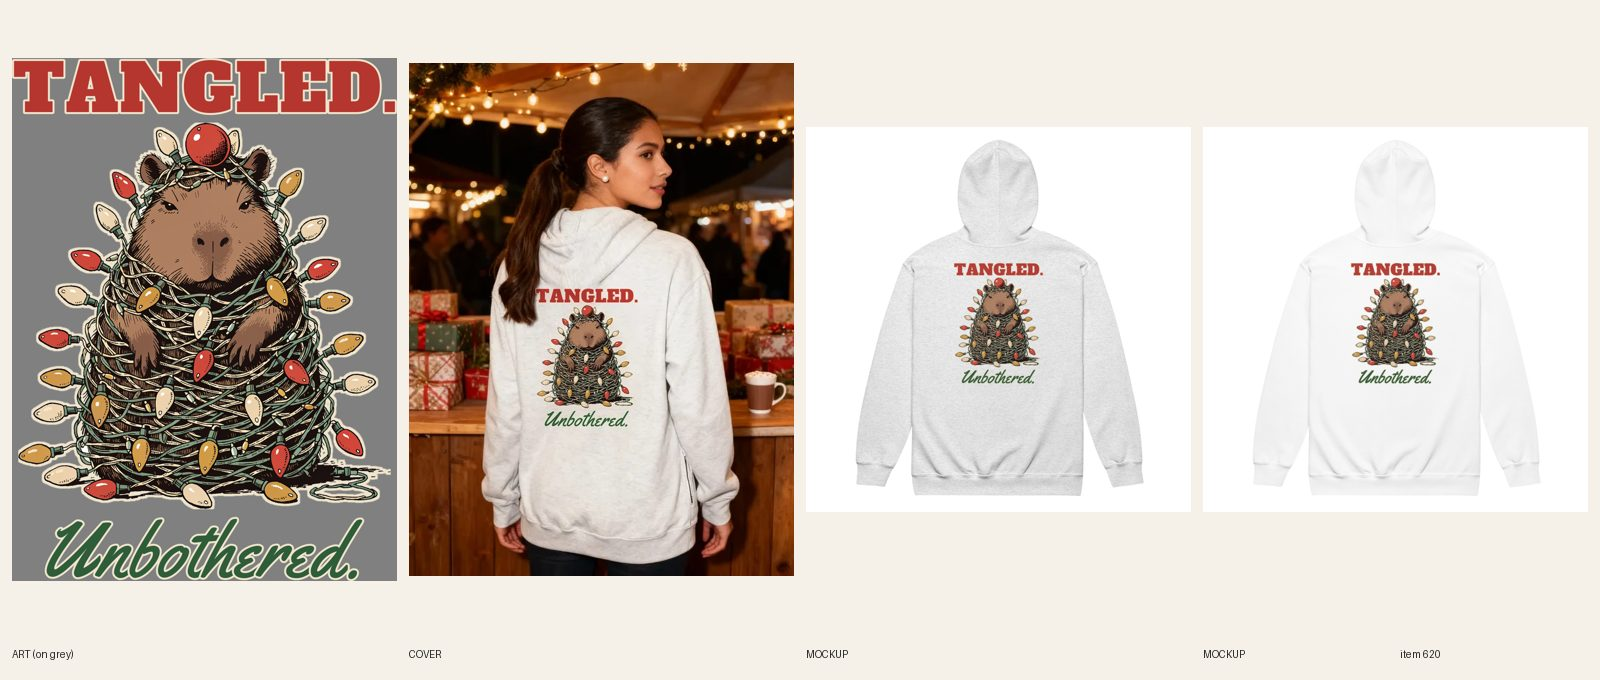
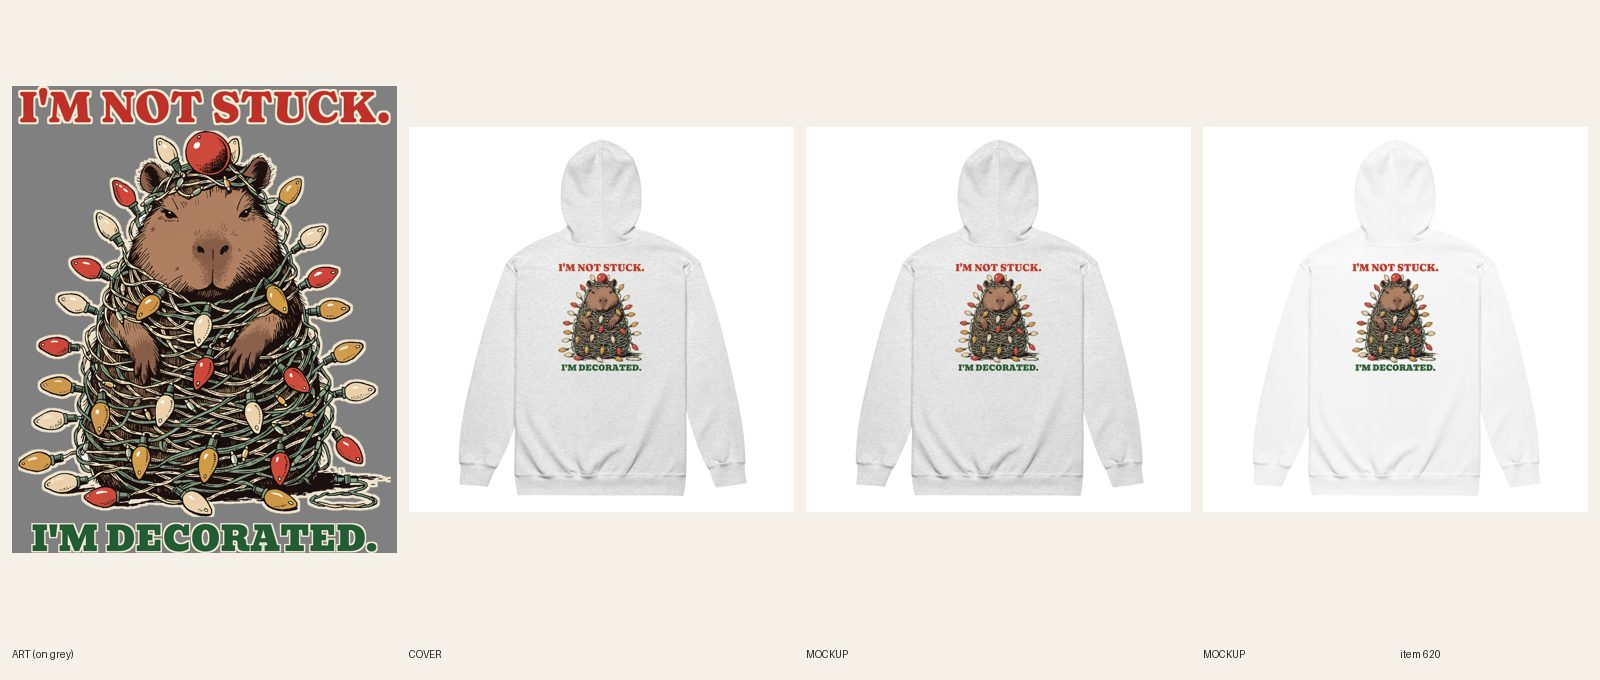
[C] review 620 (redo)
Claude-Session: https://claude.ai/code/session_01CCHcDj8LcJJ8qUPtKE3cvn

Changed region(s): [[0.0, 0.0618, 0.5, 0.8647], [0.8438, 0.3706, 0.9062, 0.5868], [0.5938, 0.3706, 0.6562, 0.5868]]

diff --git a/designs/c620/make.py b/designs/c620/make.py
@@ -1,0 +1,34 @@
+from PIL import Image, ImageDraw, ImageFont, ImageFilter
+FD='designs/fonts/'
+RED=(196,52,44,255); RED=(190,48,40,255); GREEN=(34,92,52,255); CREAM=(246,236,214,255); BROWN=(58,36,24,255)
+def line(text,font,wfrac,W,fill,key,kw=31,track=0,var=None):
+    def mk(sz):
+        f=ImageFont.truetype(FD+font,sz)
+        if var: f.set_variation_by_axes(var)
+        return f
+    f=mk(800); adv=[f.getlength(c) for c in text]
+    tot=sum(adv)+track*(len(text)-1); size=int(800*W*wfrac/tot)
+    f=mk(size); adv=[f.getlength(c) for c in text]; tr=int(track*size/800)
+    asc,desc=f.getmetrics(); tot=int(sum(adv)+tr*(len(text)-1))
+    pad=80; im=Image.new('RGBA',(tot+2*pad,asc+desc+2*pad),(0,0,0,0))
+    def draw(layer,col):
+        d=ImageDraw.Draw(layer); x=pad
+        for c,a in zip(text,adv): d.text((x,pad),c,font=f,fill=col); x+=a+tr
+    k=Image.new('L',im.size,0); d=ImageDraw.Draw(k); x=pad
+    for c,a in zip(text,adv): d.text((x,pad),c,font=f,fill=255); x+=a+tr
+    k=k.filter(ImageFilter.MaxFilter(kw)); im.paste(Image.new('RGBA',im.size,key),(0,0),k)
+    draw(im,fill)
+    return im.crop(im.getbbox())
+src=Image.open('docs/print-files/620-capybara-tangled-zip.png').convert('RGBA'); W=src.width
+art=src.crop((0,462,W,3228))
+h1=line("I'M NOT STUCK.",'Fraunces[SOFT,WONK,opsz,wght].ttf',0.97,W,RED,CREAM,kw=29,var=[9,900,60,1])
+h2=line("I'M DECORATED.",'Bevan-Regular.ttf',0.90,W,GREEN,CREAM,kw=21,track=12)
+print('h1',h1.size,'h2',h2.size,'ratio h2/h1',h2.height/h1.height)
+g=40; H=h1.height+g+art.height+g+h2.height
+out=Image.new('RGBA',(W,H),(0,0,0,0))
+out.alpha_composite(h1,((W-h1.width)//2,0)); y=h1.height+g
+out.alpha_composite(art,(0,y)); y+=art.height+g
+out.alpha_composite(h2,((W-h2.width)//2,y))
+out.save('docs/print-files/620-v2-not-stuck.png'); print(out.size,H/W)
+for n,c in (('ash',(200,200,200,255)),('white',(250,250,250,255))):
+    bg=Image.new('RGBA',out.size,c); bg.alpha_composite(out); bg.convert('RGB').resize((600,int(600*H/W))).save(f'designs/c620/prev_{n}.png')

diff --git a/docs/pipeline/620-capybara-christmas-zip-hoodie-tangled-unbothered.md b/docs/pipeline/620-capybara-christmas-zip-hoodie-tangled-unbothered.md
@@ -1,4 +1,4 @@
-status: REDO
+status: REVIEW
 shopify: gid://shopify/Product/15364926144816
 lane: C
 type: twin
@@ -29,3 +29,4 @@ kd: 18
 - 2026-10-18 08:33 UTC builder [C]: Printful relink verified 12/12 (6 Ash + 6 White: back 1088743911, chest copy 1088766040); REVIEW.
 - 2026-10-18 09:22 UTC director: LIVE. approved from docs/review/620.jpg (back print reads on Ash and White; hood visible on the back-view cover). ACTIVE + Online Store/Headless/Google & YouTube, audit --handle PASS (0 warn).
 - 2026-10-18 17:22 UTC director: QUALITY RESET grade C (new line + type), REDO. The product stays ACTIVE (same handle, URL, title keyword). 1. Line (R3.12, quality-reset 'Lines'): "Tangled. / Unbothered.": Noun + mild aside, describes the picture; thin green script under art. Write 5 candidates, keep the one a stranger laughs at in 3 seconds without backstory; kill lines that only describe the picture; if none of the 5 is funny, PARK it. 2. Quality reset type bar (docs/backlog/quality-reset.md, 'The new bar'): headline at least 90% of the art width, heavy, colors pulled from the art; second line at least 45% of the headline's height, never a thin script on a dark or mid garment; use the lettering as a shape (arch, stacked lockup, words breaking into the art), not a plain bar above and a script line below; no font used on more than 1 in 6 of the last 30 designs. 3. Keep the art if it carries the new line, else one new illustration (R4/R5). New print means a new cover per R6.10, copy line one rewritten for the new joke (R8.3), and a fresh review sheet (R7.7). While quality-reset.md says PAUSED, only lane A builds, and only the samples step 2 names.
+- 2026-10-20 10:30 UTC builder [C]: REDO new line + type (grade C). 5 candidates: "I'M NOT STUCK. / I'M DECORATED." (kept: the capybara's calm excuse, a stranger gets it from the picture), "TANGLED. UNBOTHERED." (old), "THE LIGHTS WORKED LAST YEAR.", "TESTING 1, 2, 3", "DECK THE HALLS. WITH ME.". Same tangled-lights capybara art. I'M NOT STUCK. in Fraunces Black (opsz 9) 97% of the art width, red with cream keyline; I'M DECORATED. in Bevan 90% width, green with cream keyline (78% of the headline's height). Ash + White light, no cream fills, one back file 1090177287 (2754 x 3344, docs/print-files/620-v2-not-stuck.png), BW 1560 BT 225 (about 1,900 px high), chest copy 1088766040 unchanged, 12/12 relinked. Both back mockups replaced in place, read at phone size. Copy, story, FAQ, SEO rewritten for the new line; Christmas order-by Dec 8 kept. Plain product shot. fal $0.

diff --git a/docs/intake-log.md b/docs/intake-log.md
@@ -26,6 +26,7 @@ RUNNING lane B since 2026-10-20 03:28 UTC
 2026-10-20 03:41 UTC — [B] Builder run: redid #362 Women's Baseball hoodie (line + type: MISSED THE PLAY. / SEEDS WERE GOOD., same art, Bowlby One, Navy + Sand light files, 12/12 synced). REVIEW. fal $0.
 2026-10-20 05:26 UTC — [E] Builder run: redid #388 Women's Christmas crewneck (line + type: SORRY, I'M BOOKED TILL JANUARY., new party-calendar art, Navy + Sand files, 12/12 synced, copy updated, plain product shot). REVIEW. fal $0.08.
 RUNNING lane C since 2026-10-20 03:23 UTC
+2026-10-20 10:32 UTC — [C] Builder run: redid #620 Women's Christmas capybara zip hoodie (new line + type: I'M NOT STUCK. / I'M DECORATED., Fraunces Black + Bevan, same lights art, back file 1090177287, 12/12 relinked, 2 back mockups replaced in place, copy + SEO updated, plain product shot). REVIEW. fal $0.
 2026-10-20 09:57 UTC — [C] Builder run: redid #563 Women's Gigi hoodie (type only: GIGI Alfa Slab + BECAUSE GRANDMA SOUNDED OLD. Oswald Bold, same handbag art, file 1090174683, FW 1500 TOP 0, 12/12 relinked, 2 fronts replaced in place, copy updated, plain product shot). REVIEW. fal $0.
 2026-10-20 09:22 UTC — [C] Builder run: redid #448 Men's Wizard grill zip hoodie (new line + type: ABRA-KEBAB-RA! / GRILL WIZARD, Alfa Slab + Fraunces, same wizard art, Ash file 1090170117 + Navy file 1090170188, BW 1560 BT 225, 12/12 relinked, back mockups updated, copy + SEO updated, plain product shot). REVIEW. fal $0.
 2026-10-20 08:47 UTC — [C] Builder run: redid #637 Men's Welder hoodie (new line + type: WELD. GRIND. PAINT. / NOBODY WILL KNOW., Big Shoulders + Alfa Slab, same worker art, Sand file 1090166098 + Navy file 1090166150, FW 1500 TOP 0, 12/12 relinked, 2 fronts replaced in place, copy + SEO updated, plain product shot). REVIEW (DRAFT). fal $0.
